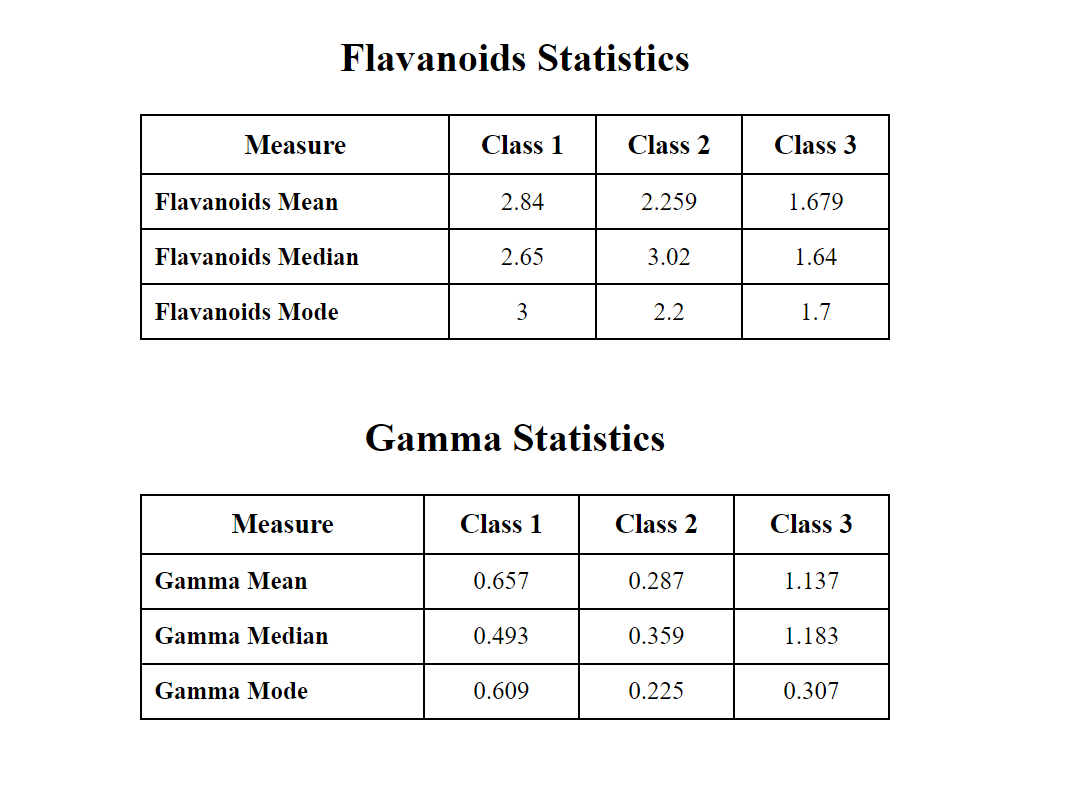
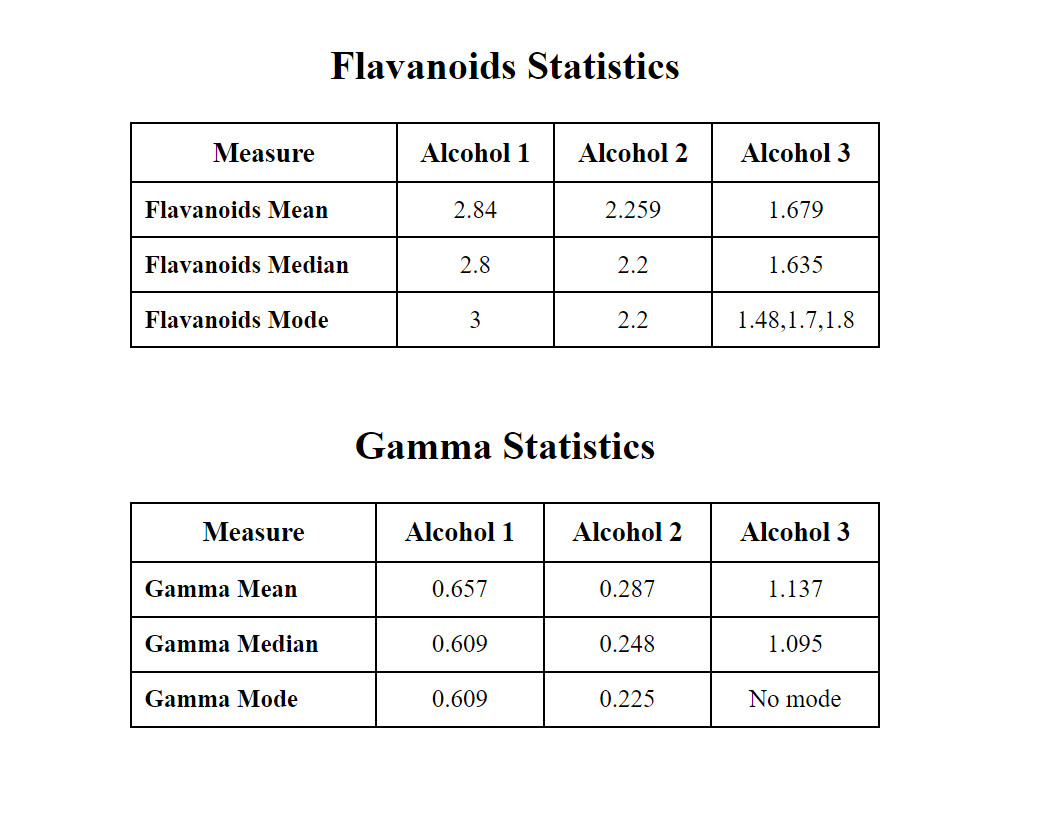
bug fixes

diff --git a/src/utils/statisticsFunctions.ts b/src/utils/statisticsFunctions.ts
@@ -15,6 +15,7 @@ const calculateMean = (data: number[]) => {
 // Function to calculate median
 const calculateMedian = (data: number[]) => {
   let median;
+  data = data.sort((a, b) => a - b);
   const mid = Math.floor(data.length / 2);
 
   if (data.length % 2 === 0) {
@@ -31,20 +32,24 @@ const calculateMedian = (data: number[]) => {
 
 // Function to calculate mode
 const calculateMode = (data: number[]) => {
-  const modeMap: Record<number, number> = {};
-  let maxCount = 0;
-  let mode: number | null = null;
+  let modeValues = [];
+  let maxFrequency = 0;
+  const frequencyMap: any = new Map();
 
-  data.forEach((value) => {
-    modeMap[value] = (modeMap[value] || 0) + 1;
+  for (const val of data) {
+    frequencyMap.set(val, (frequencyMap.get(val) || 0) + 1);
+  }
 
-    if (modeMap[value] > maxCount) {
-      maxCount = modeMap[value];
-      mode = value;
+  for (const [value, frequency] of frequencyMap) {
+    if (frequency > maxFrequency) {
+      modeValues = [value];
+      maxFrequency = frequency;
+    } else if (frequency === maxFrequency) {
+      modeValues.push(value);
     }
-  });
+  }
 
-  return mode !== null ? (mode as number).toFixed(3) : "No mode";
+  return modeValues.length === data.length ? "No mode" : modeValues.join(",");
 };
 
 // Function to calculate Statistics
@@ -68,7 +73,7 @@ const calculateStatisticalMeasures = (
     classWiseStatistics[alcoholClass] = {
       mean: +mean,
       median: +median,
-      mode: +mode,
+      mode: mode,
     };
   }
 
@@ -85,22 +90,22 @@ const calculateGamma = (entry: WineData) => {
 const calculateClassWiseStats = (wineData: WineData[], property: Property) => {
   const classWiseValues: ClassWiseValues = {};
 
-  // Iterate through the dataset and collect "Flavanoids" or Gamma values for each class
   for (const wine of wineData) {
     const alcoholClass = wine.Alcohol;
 
-    if (!classWiseValues[`Class ${alcoholClass}`]) {
-      classWiseValues[`Class ${alcoholClass}`] = [];
+    if (!classWiseValues[`Alcohol ${alcoholClass}`]) {
+      classWiseValues[`Alcohol ${alcoholClass}`] = [];
     }
 
     if (property) {
       // property is not empty store Flavanoids values
-      classWiseValues[`Class ${alcoholClass}`].push(+wine[property]);
+      classWiseValues[`Alcohol ${alcoholClass}`].push(+wine[property]);
     } else {
       // property is empty then calculate Gamma
-      classWiseValues[`Class ${alcoholClass}`].push(calculateGamma(wine));
+      classWiseValues[`Alcohol ${alcoholClass}`].push(calculateGamma(wine));
     }
   }
+  console.log(classWiseValues, "skdjffksdjflksdjflkdsclass");
   // storing classData in the storage
   localStorage.setItem(
     "classData",

diff --git a/src/types/wineTableTypes.ts b/src/types/wineTableTypes.ts
@@ -16,7 +16,7 @@ export interface WineData {
 
 export interface Stats {
   mean: number;
-  mode: number;
+  mode: string;
   median: number;
 }
 

diff --git a/src/index.css b/src/index.css
@@ -36,6 +36,5 @@ td {
 
 table {
   width: 600px;
-  overflow-x: scroll;
   border-collapse: collapse;
 }
